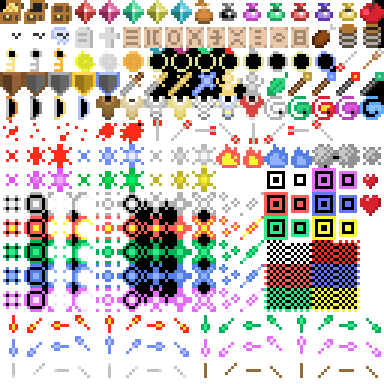
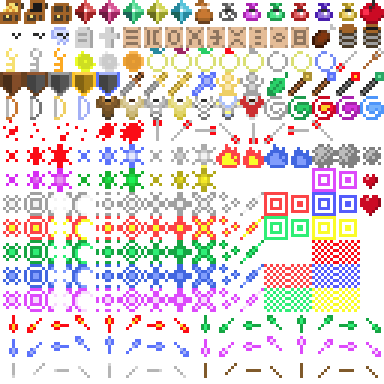
Fixed up assets, refacored how to determine color, and made particles look awesome.

diff --git a/particles/particle_engine.rb b/particles/particle_engine.rb
@@ -1,13 +1,25 @@
 class Particle
-  attr_reader :x, :y, :color
-  def initialize x, y, color, duration
-    @x, @y, @color, @duration = x, y, color, duration
+  attr_reader :x, :y
+  attr_reader :effect_id, :animation_length, :frame
+  def initialize x, y, color, duration, effect_id = 5, animation_length = 9
+    @x, @y, @color, @duration, @effect_id, @animation_length = x, y, color, duration, effect_id, animation_length
+    @frame = 0
+  end
+  def angle
+    rand(360)
   end
   def tick
+    @frame += 1
     @duration -= 1
   end
   def done?
     @duration <= 0
+  end
+  def random_color
+    [0,1,2,3].sample
+  end
+  def color
+    @color || random_color
   end
 end
 
@@ -18,20 +30,20 @@ class ScatterParticle < Particle
     @y += rand(5)-2
   end
 end
+class MovingParticle < Particle
+  def initialize angle, speed, *args
+    super(*args)
+    @angle, @speed = angle, speed
+  end
+  def tick
+    super
+    @x += Gosu::offset_x(@angle, @speed)
+    @y += Gosu::offset_y(@angle, @speed)
+  end
+end
 
 class StaticParticle < Particle
 end
-# class MovingParticle < Particle
-#   def initialize x, y, color, duration, vel_x, vel_y
-#     super(x,y,color,duration)
-#     @vel_x, @vel_y= vel_x, vel_y
-#   end
-#   def tick
-#     super
-#     @x += @vel_x
-#     @y += @vel_y
-#   end
-# end
 
 class Emitter
   attr_reader :x, :y
@@ -39,12 +51,7 @@ class Emitter
     @x, @y, @duration, @color = x, y, duration, color
   end
   def random_color
-    [
-      Gosu::Color::RED,
-      Gosu::Color::BLUE,
-      Gosu::Color::GREEN,
-      Gosu::Color::YELLOW
-    ].sample
+    [0,1,2,3].sample
   end
   def color
     @color || random_color
@@ -64,18 +71,34 @@ class SparkEmitter < Emitter
   end
 end
 
+class TrailEmitter < Emitter
+  def generate_particles!
+      super
+     [ScatterParticle.new(x, y, color, 20, 14, 1)]
+  end
+end
+
 class ExplosionEmitter < Emitter
   def generate_particles!
     super
     particles = []
     3.times do |xa|
       3.times do |ya|
-        particles << ScatterParticle.new(x + xa - 1, y + ya - 1, color, 20) if rand(2) == 0
+        particles << MovingParticle.new(
+           rand(360),
+                   5,
+          x + xa - 1,
+          y + ya - 1,
+               color,
+         rand(10)+10,
+                   5,
+                   3) if rand(5) == 0
       end
     end
     particles
   end
 end
+
 
 class BombEmitter < Emitter
   def generate_particles!
@@ -114,12 +137,17 @@ class ParticleEngine
   end
   def draw
     @particles.each do |p|
-      @window.draw_quad(
-        p.x-1, p.y-1, p.color,
-        p.x+1, p.y-1, p.color,
-        p.x-1, p.y+1, p.color,
-        p.x+1, p.y+1, p.color
-      )
+        if p.effect_id
+          p.effect_id + (p.frame%p.animation_length) + p.color*20
+          @window.effects[p.effect_id + (p.frame%p.animation_length) + p.color*20].draw_rot(p.x, p.y, 5, p.angle)
+        else
+          @window.draw_quad(
+            p.x-1, p.y-1, Player::COLORS[p.color],
+            p.x+1, p.y-1, Player::COLORS[p.color],
+            p.x-1, p.y+1, Player::COLORS[p.color],
+            p.x+1, p.y+1, Player::COLORS[p.color]
+          )
+        end
     end
   end
 end

diff --git a/modes/battle.rb b/modes/battle.rb
@@ -14,7 +14,7 @@ class Battle
       [window.width/4 + window.width/4*2, window.height/4 + window.height/4*0, -135],
       [window.width/4 + window.width/4*0, window.height/4 + window.height/4*2,   45],
       [window.width/4 + window.width/4*2, window.height/4 + window.height/4*2, - 45],
-    ]
+    ].shuffle
     @players.each do |p|
       klass = p.ship_klass || Player::SHIPS.compact.sample
       ship = klass.new(@window, self, p)
@@ -85,13 +85,13 @@ class Battle
 
     x, y, color = case p.team
       when 0
-        [0,0, Gosu::Color::RED]
+        [0,0, Player::COLORS[p.color]]
       when 1
-        [@window.width - total, 0, Gosu::Color::GREEN]
+        [@window.width - total, 0, Player::COLORS[p.color]]
       when 2
-        [0, @window.height - height, Gosu::Color::BLUE]
+        [0, @window.height - height, Player::COLORS[p.color]]
       when 3
-        [@window.width - total,  @window.height - height, Gosu::Color::FUCHSIA]
+        [@window.width - total,  @window.height - height, Player::COLORS[p.color]]
     end
 
     @window.draw_quad(

diff --git a/shots/shot.rb b/shots/shot.rb
@@ -1,7 +1,6 @@
 class Shot
   attr_accessor :x, :y, :angle
   def initialize(window, owner)
-    @effects = window.effects
     @owner = owner
     @w,@h = window.width, window.height
     @window = window
@@ -18,7 +17,7 @@ class Shot
     @y %= @h
   end
   def draw
-    @effects[image_offset + team_offset*@owner.team].draw_rot(@x, @y, 1, @angle)
+    @window.effects[image_offset + @owner.color*20].draw_rot(@x, @y, 10, @angle)
   end
   def hit?
     !!@hit
@@ -43,13 +42,13 @@ class Shot
         @y < p.y + r &&
         @y > p.y - r &&
         @hit = true
-        @window.particles.add_emitter(SparkEmitter.new(@x, @y, 5, @owner.color))
+        display_emitters!
         collide!(p)
       end
     end
   end
-  def team_offset
-    8
+  def display_emitters!
+    @window.particles.add_emitter(SparkEmitter.new(@x, @y, 5, @owner.color))
   end
 
   def collide!(ship)

diff --git a/app.rb b/app.rb
@@ -15,13 +15,13 @@ class GameWindow < Gosu::Window
   def initialize
     super(WIDTH, HEIGHT, false)
     self.caption = "Gosu Tutorial Game"
-    @players = Array.new(4) {|x| Player.new(x) }
+    @players = (Array.new(4) {|x| Player.new(x) })
 
     @between_games = true
 
     @font = Gosu::Font.new(self, "Verdana", 24)
     @ship_images = Gosu::Image.load_tiles(self, "ships.png", 26*2, 18*2, false)
-    @effects = Gosu::Image.load_tiles(self, "effects.png", 24, 24, false)
+    @effects = Gosu::Image.load_tiles(self, "assets.png", 24, 24, false)
     @particles = ParticleEngine.new(self)
 
     @mode = MenuMode.new(self, @players)

diff --git a/player.rb b/player.rb
@@ -15,7 +15,14 @@ class Player
     Gosu::Color::GREEN,
     Gosu::Color::BLUE,
     Gosu::Color::FUCHSIA
-  ].shuffle
+  ]
+
+  COLOR_SHUFFLE = {}
+  teams = [0,1,2,3].shuffle
+  4.times do |x|
+    COLOR_SHUFFLE[x] = teams.pop
+  end
+
   SHIPS = [
     nil,
     Arilou,
@@ -45,7 +52,8 @@ class Player
   end
 
   def color
-    COLORS[team]
+    #COLORS[COLOR_SHUFFLE[team]]
+    COLOR_SHUFFLE[team]
   end
   def bind_action_to_button action, button
     @bindings[action] = button

diff --git a/shots/slow_shot.rb b/shots/slow_shot.rb
@@ -4,10 +4,13 @@ class SlowShot < Shot
   def move
     super
     #TODO this should be in a tick function
-    @window.particles.add_emitter SparkEmitter.new(@x, @y, 3, @owner.color)
+    @window.particles.add_emitter TrailEmitter.new(@x, @y, 3, @owner.color)
+  end
+  def display_emitters!
+    @window.particles.add_emitter(SparkEmitter.new(@x, @y, 35, @owner.color))
   end
   def image_offset
-    14*15+2
+    1
   end
   def speed
     6

diff --git a/ships/ship.rb b/ships/ship.rb
@@ -45,10 +45,6 @@ class Ship
     player.color
   end
 
-  def shot_offset
-    16*13 + 4 + 8*team
-  end
-
   def damage! amt
     @hull -= amt
   end
@@ -90,7 +86,7 @@ class Ship
 
   def draw
     @image.draw_rot(@x, @y, 1, @angle)
-    @font.draw_rel(team.to_s,@x,@y-45,1,0.5,0.5,1,1,color)
+    @font.draw_rel(team.to_s,@x,@y-45,1,0.5,0.5,1,1,Player::COLORS[color])
   end
 
   def expired?

diff --git a/modes/menu_mode.rb b/modes/menu_mode.rb
@@ -29,7 +29,7 @@ class MenuMode
   def draw
     selectors.each do |selector|
       y = 150*selector.team + 30
-      effect_id = 16*(10+selector.team)
+      effect_id = 16+(20*selector.color)
 
       x = 25
       @window.effects[effect_id].draw(x, y-20, 1) if selector.current_menu == :select_ship

diff --git a/modes/menu_selector.rb b/modes/menu_selector.rb
@@ -44,6 +44,9 @@ class MenuSelector
   def team
     @player.team
   end
+  def color
+    @player.color
+  end
 
   def pressed_button id
     if current_menu == :config_buttons

diff --git a/shots/mine.rb b/shots/mine.rb
@@ -2,10 +2,7 @@ require './shots/shot'
 
 class Mine < Shot
   def image_offset
-    3
-  end
-  def team_offset
-    2
+    0
   end
   def speed
     0

diff --git a/shots/bomb.rb b/shots/bomb.rb
@@ -6,10 +6,7 @@ class Bomb < Shot
     super
   end
   def image_offset
-    3
-  end
-  def team_offset
-    2
+    0
   end
   def speed
     0.5

diff --git a/shots/quick_shot.rb b/shots/quick_shot.rb
@@ -2,7 +2,7 @@ require './shots/shot'
 
 class QuickShot < Shot
   def image_offset
-    14*15-2
+    1
   end
   def speed
     10
